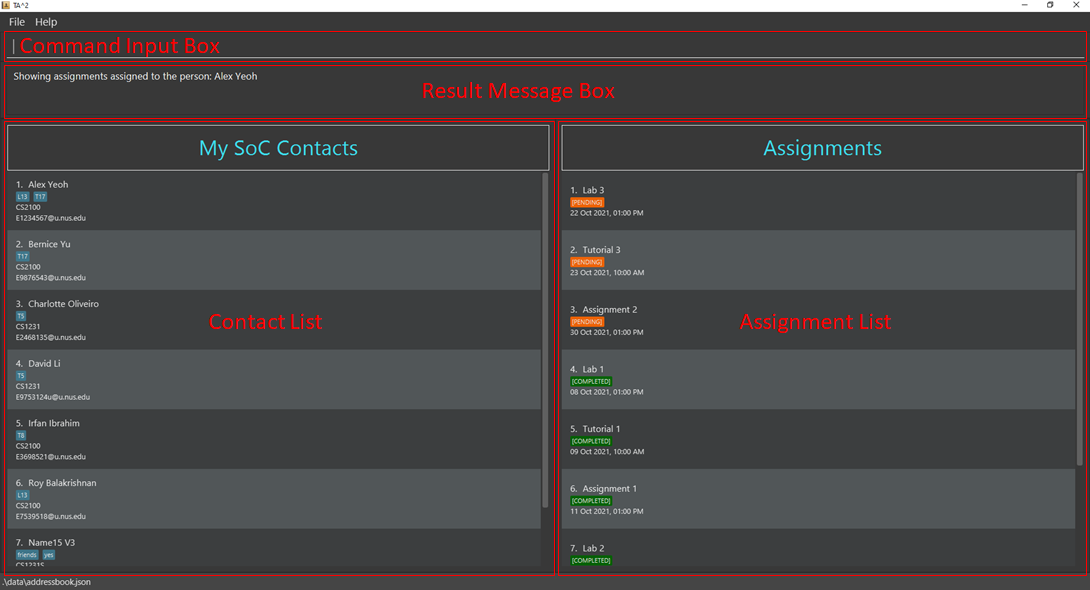
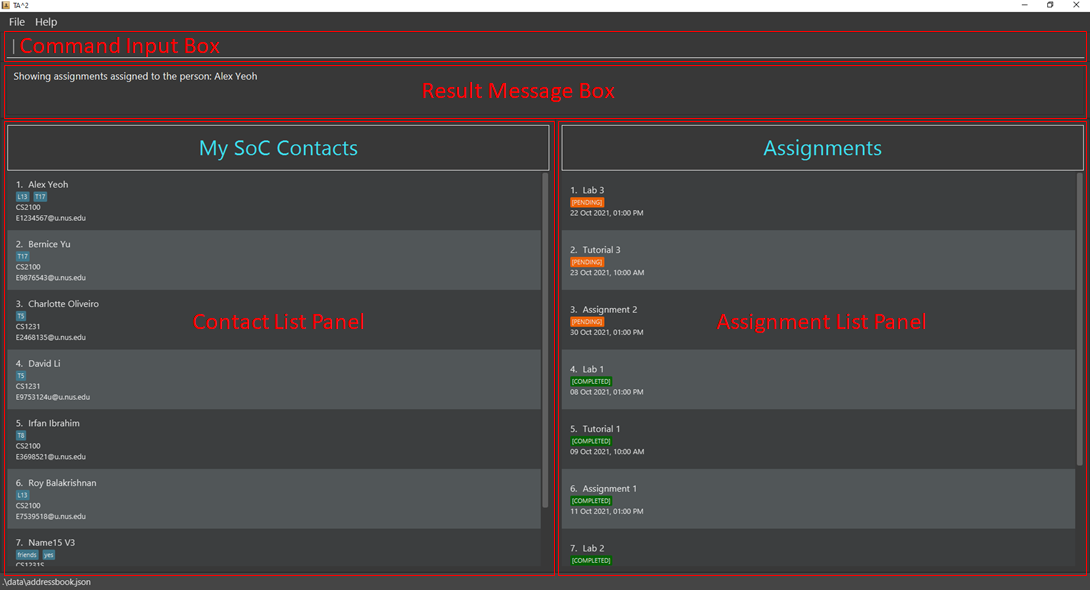
Update ss, Update display assignment list implementation

Changed region(s): [[0.655, 0.5186, 0.8422, 0.5797], [0.1872, 0.5186, 0.3431, 0.5797]]

diff --git a/docs/DeveloperGuide.md b/docs/DeveloperGuide.md
@@ -233,48 +233,52 @@ Classes used by multiple components are in the `seedu.addressbook.commons` packa
 
 This section describes some noteworthy details on how certain features are implemented.
 
-### Show assignment list feature
+### Assignment list panel display feature
 
 #### Implementation
 
-The show assignment mechanism is facilitated by `AddressBook`, where the specified person's assignment list is stored internally under `assignments` This `assignments` is retrieved or updated by the following methods:
+The assignment list panel display mechanism is facilitated by `AddressBook`, where the specified person's assignment list is stored internally under `assignments` This `assignments` is retrieved or updated by the following methods:
 * `AddressBook#getAssignmentList()`
 * `AddressBook#updateAssignmentList(Person person)`  —  where `person` is the specified person.
 
-These methods are exposed in the `Model` interface as `Model#getFilteredAssignmentList()` and `Model#updateFilteredAssignmentList(Person person)` respectively.
+These methods are exposed in the `Model` interface as `Model#getAssignmentList()` and `Model#updateAssignmentList(Person person)` respectively.
+In addition, `Model` contains a field `assignmentsList` that points towards `assignment` in `AddressBook`. `assignmentsList` serve as connection for `Logic` to retrieve `assignments` to display.
 
 Given below is an example usage scenario and how the show assignment mechanism behaves at each step.
 
-Step 1. The user launches the application for the first time. The `assignments` will be initialized with an empty list.
+Step 1. The user launches the application for the first time. The `assignments` will be initialized with a `UniqueAssignmentList` that does not contain any `Assignment`.
 
-![AssignmentState0](images/AssignmentState0.png)
+Step 2. The user inputs `show 2` command to display the 2nd person's assignment list in the address book. The `show` command will then call `Model#FilterdAssignmentList(person)`, whereby `person` variable is the 2nd person in the address book.
+This will then call `Addressbook#updateAssignmentList(person)`, causing the `assignments` in `AddressBook` to be replaced with the 2nd person's assignment list.
 
-Step 2. The user inputs `show 2` command to display the 2nd person's assignment list in the address book. The `show` command will then call `Model#updateFilterdAssignmentList(person)`, whereby `person` variable is the 2nd person in the address book.
-This causes the `assignments` in `AddressBook` to be replaced with the 2nd person's assignment list.
-
-![AssignmentState1](images/AssignmentState1.png)
-
-
-Step 3. When `assignments` is updated, it is retrieved by the `Logic` using `Model#getFilteredAssignmentList()` to input into the assignment panel of the `Ui`
-This results in the assignment list panel to display the assignments of the person.
-
-![AssignmentState2](images/AssignmentState2.png)
-
+Step 3. When `assignments` is updated, it is retrieved by the `Logic` using `Model#getFilteredAssignmentList()` to input into the assignment list panel of the `UI`
+This results in the assignment list panel to display the assignments of the 2nd person.
 
 Step 4. The user decides to modify the assignment list of the person by using either `give`, `done` or `remove` command. This will result in the assignment list in the person to be modified.
-The command will the call `Model#updateFilteredAssignmentList(person)` to get the recent updated assignment list to replace `assignments`.
+The command will then call `Model#updateAssignmentList(person)` to get the recent updated assignment list to replace `assignments`.
 
-![AssignmentState3](images/AssignmentState3.png)
+Step 5. Step 3 is repeated to display the recent updated assignment list.
 
-
-Step 5. Step 3 is repeated to show the recent updated assignment list.
-
-![AssignmentState4](images/AssignmentState4.png)
-
+The sequence diagram below illustrates the interactions between the `Logic` and `Model` component, when an assignment command (e.g `show`, `give`, `done`, `remove`) is called.
+![DisplayAssignmentListSequenceDiagram](images/DisplayAssignmentListSequenceDiagram.png)
 
 #### Design considerations:
-The assignment list of the specified person is stored in `AddressBook` rather than `ModelManger`
 
+**Aspect: How the assignment list can be displayed:**
+
+* **Alternative 1(current choice):** Displays assignment list next to the contact list panel in the same window.
+
+  * Pros: Allows for better grouping of assignment commands, so that commands are separated cleanly.<br>
+    e.g. `give`, `remove` are assignment commands while, `add`, `delete` is a student command.
+
+  * Cons: Commands that apply to both persons and assignments will become harder to manage. <br>
+    e.g. `undo`, `redo`.
+
+* **Alternative 2:** Displays assignment list on a new separate window.
+
+  * Pros: Allows user to resize and position the assignment list to suit their preferance.
+  
+  * Cons: Additional UI may lead to slower proccessing and execution.
 
 ### Assignment Feature
 
